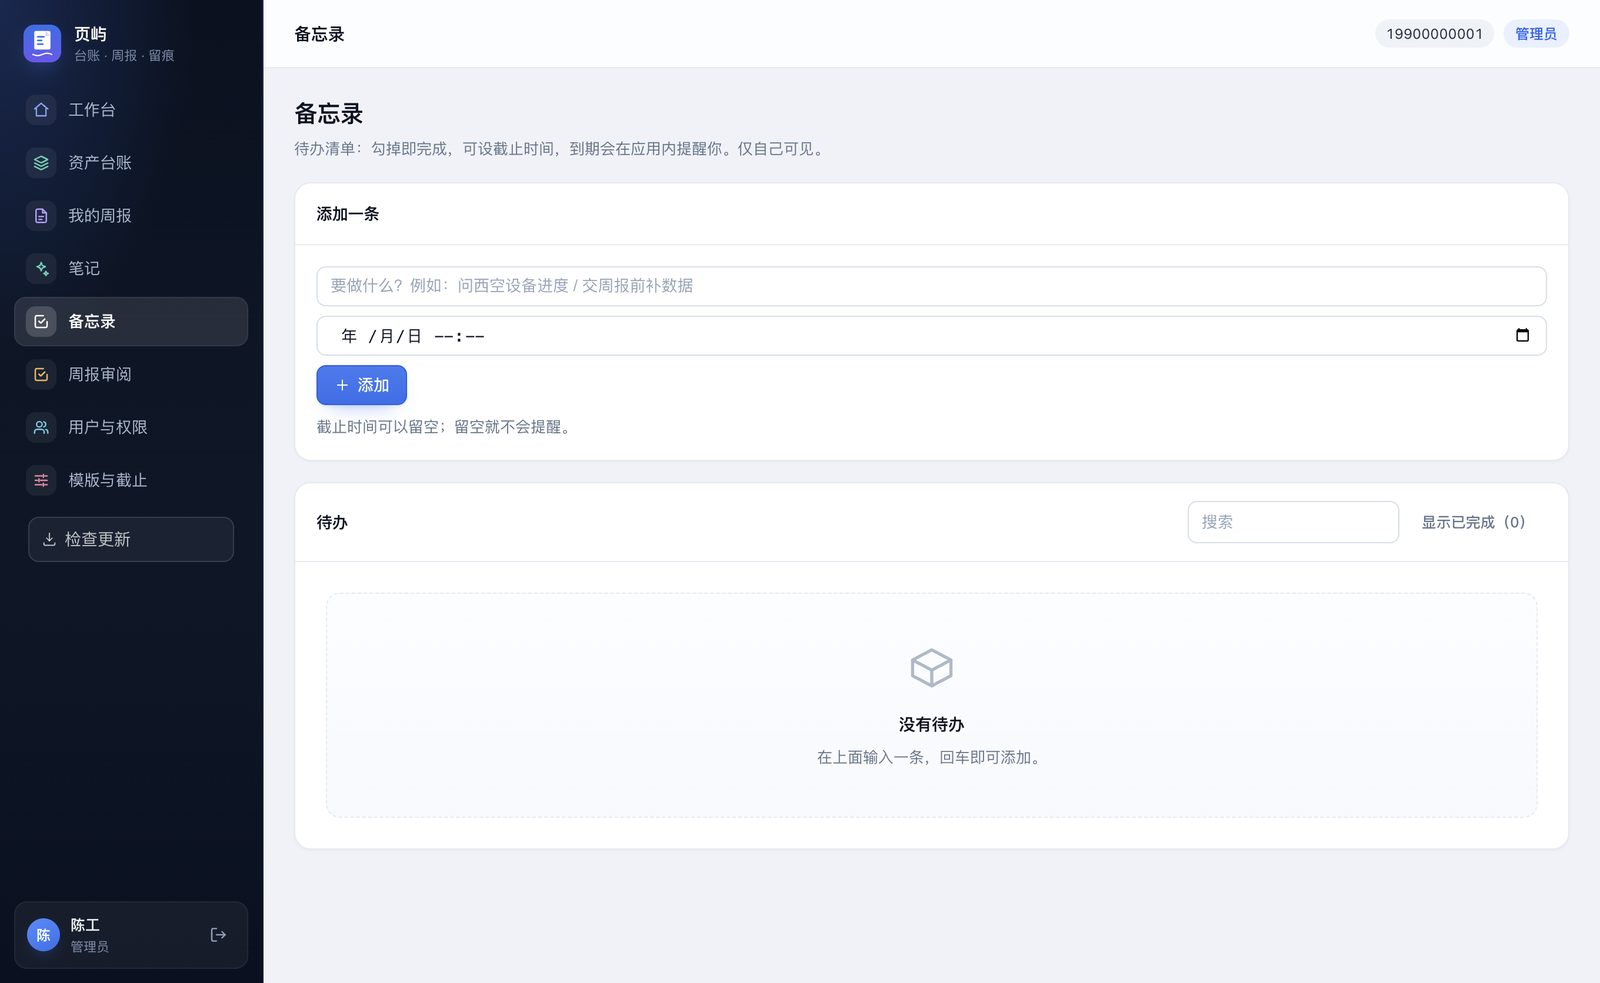
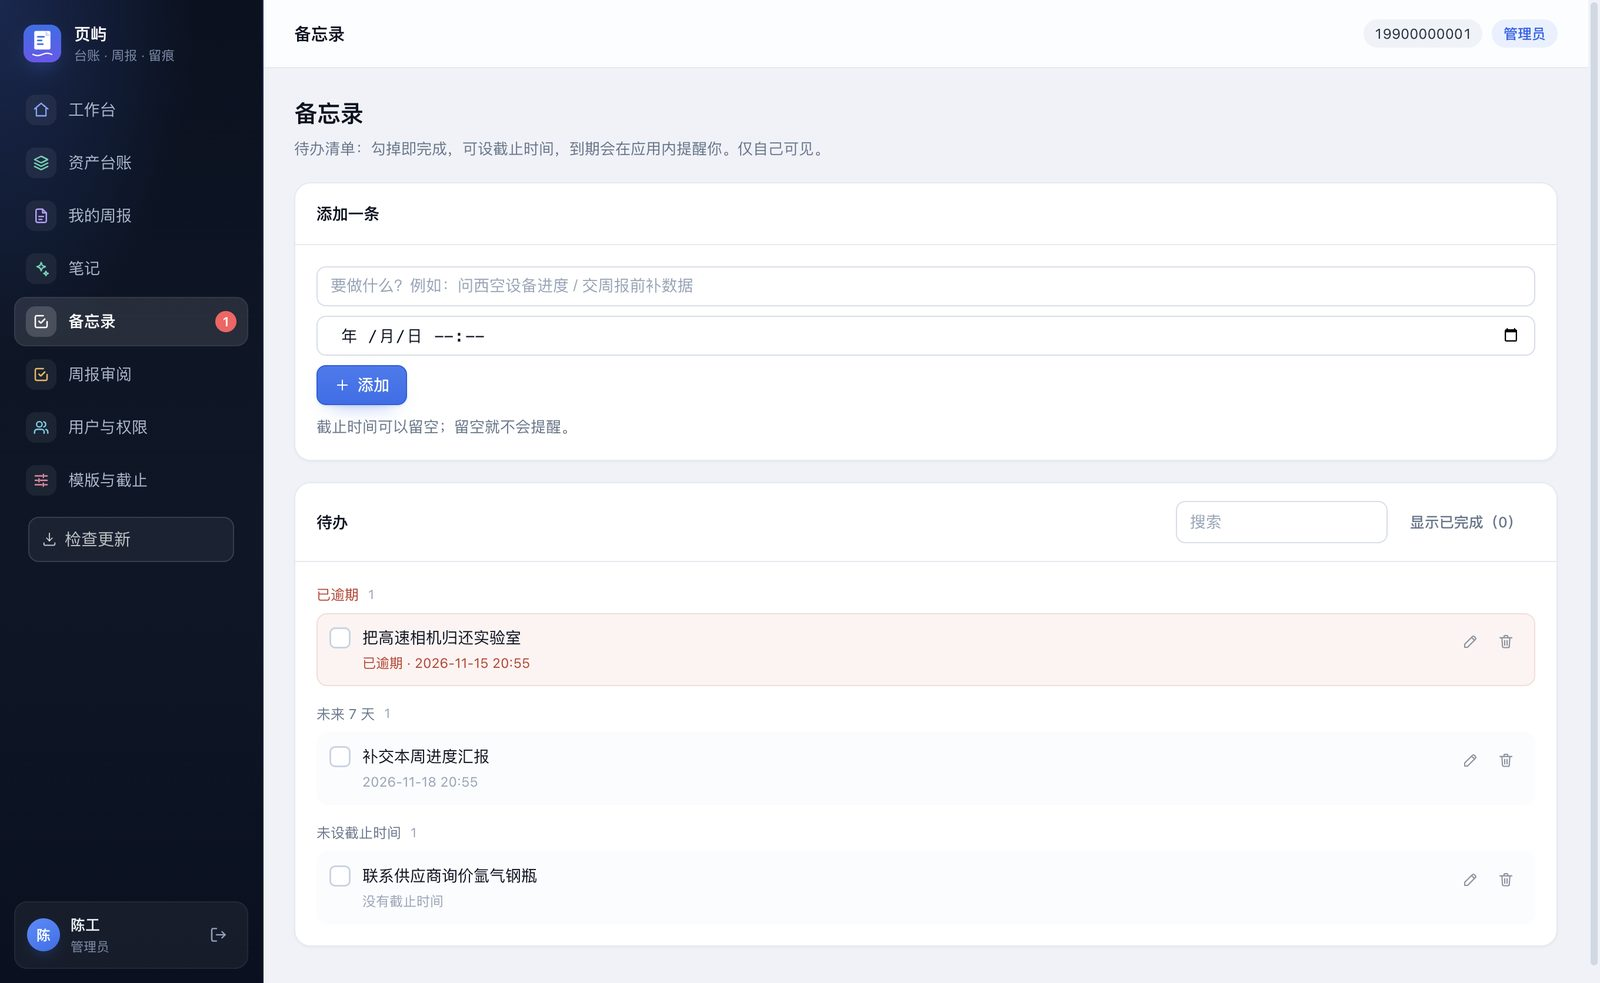
docs(site): 从名字出发重写定位，并扩展到课题组以外的领域
- 封面改为「一页一屿，连成你自己的群岛」，副文案讲「记录散在群聊、表格、便签和脑子里」的处境
- 新增「名字的故事」区块：页=记录、屿=岛、孤立的记录 vs 连成群岛后的地形
- 痛点区改为跨行业对照：工作室（雕刻机去哪了）/ 课题组（周五下午的周报）/
  门店·车间（客户那句「要浅一点」）/ 截止夜（挨个问交没交），
  收在一句「名字换了，麻烦是一样的」
- 功能区标题保持「四件事，一个窗口」，卡片改为跨领域措辞：
  台账（设备·物料·库存）、周期汇报（周报/月报/日报）、笔记与日志、待办与提醒、
  成员与分组、音视频与附件
- 新增「谁用得上」六宫格：课题组/工作室/车间仓库/门店诊所/社团/家庭个人
- 信任区与部署区去掉「课题组」限定；标题与 meta/og 同步新定位
- 重抓演示截图：笔记载入 4 条（含日报、双链与关联面板）、备忘录 3 条并带逾期角标，
  替换掉之前「还没有笔记」的空状态图

diff --git a/site/index.html b/site/index.html
@@ -3,10 +3,10 @@
 <head>
 <meta charset="utf-8" />
 <meta name="viewport" content="width=device-width, initial-scale=1" />
-<title>页屿 Yeyu · 实验室台账、周报与笔记的桌面工作台</title>
-<meta name="description" content="「那台示波器借给谁了？」——页屿替你记着。课题组的设备台账、按模版写的周报、每日记录与待办，都在一个窗口里；数据存在自己的服务器上，开源 MIT。" />
-<meta property="og:title" content="页屿 Yeyu · 实验室台账、周报与笔记的桌面工作台" />
-<meta property="og:description" content="设备去了哪、周报写到哪、想法停在哪——一屏看完。开源 MIT，装在自己的服务器上。" />
+<title>页屿 Yeyu · 一页一屿，把散落的记录连成你自己的岛</title>
+<meta name="description" content="页屿 Yeyu：把设备台账、周期汇报、笔记日志、待办提醒放进一个桌面软件。适合课题组、工作室、车间、门店、社团——任何「东西要登记、进度要交代、想法要留住」的小团队。开源 MIT，数据在自己服务器上。" />
+<meta property="og:title" content="页屿 Yeyu · 一页一屿，把散落的记录连成你自己的岛" />
+<meta property="og:description" content="一页一屿。设备在谁手上、这周做了什么、那句话记在哪——散在群聊和便签里的记录，连成你自己的一座岛。开源 MIT。" />
 <meta property="og:image" content="assets/hero-home.jpg" />
 <link rel="icon" href="assets/logo.png" />
 <style>
@@ -118,6 +118,27 @@
   section { padding: 76px 0; }
   .section-title { font-size: 27px; margin: 0 0 10px; letter-spacing: -0.01em; }
   .section-sub { color: var(--ink-soft); font-size: 14.5px; margin: 0 0 34px; line-height: 1.85; }
+
+  /* 名字的故事 */
+  .name-story { color: #fff; padding: 8px 0 30px; }
+  .name-story .wrap { max-width: 780px; }
+  .name-line { font-size: 30px; line-height: 1.5; margin: 0 0 18px; letter-spacing: -0.01em; }
+  .name-line span {
+    background: linear-gradient(96deg, #8ab4ff, #c8a9ff);
+    -webkit-background-clip: text; background-clip: text; color: transparent;
+    font-weight: 700;
+  }
+  .name-sub { font-size: 15px; line-height: 2; color: rgba(255,255,255,0.66); margin: 0 0 16px; }
+  .name-end { font-size: 15px; color: rgba(255,255,255,0.8); margin: 0; }
+  .name-end strong { color: #fff; }
+
+  /* 谁用得上 */
+  .uses { display: grid; grid-template-columns: repeat(3, 1fr); gap: 14px; }
+  @media (max-width: 940px) { .uses { grid-template-columns: repeat(2, 1fr); } }
+  @media (max-width: 620px) { .uses { grid-template-columns: 1fr; } }
+  .use { background: var(--panel); border: 1px solid var(--line); border-radius: 14px; padding: 18px 20px; }
+  .use h4 { font-size: 14.5px; margin: 0 0 7px; color: var(--ink); }
+  .use p { margin: 0; font-size: 13px; line-height: 1.8; color: var(--ink-soft); }
 
   /* 痛点区（深色） */
   .pains { color: #fff; padding: 26px 0 84px; }
@@ -246,10 +267,10 @@
     <div class="wrap hero-grid">
       <div>
         <span class="pill"><i></i><span id="release-badge">开源 · MIT</span></span>
-        <h1>「那台示波器，<br />借给谁了？」<br /><em>页屿替你记着。</em></h1>
+        <h1>一页一屿，<br />连成你自己的<em>群岛</em></h1>
         <p class="lede">
-          组里的设备台账、按模版写的周报、每天的想法、没做完的待办，本来是四件互不相干的事。
-          页屿把它们收进同一个窗口：东西在谁手上、周报改过几版、那句话是什么时候记的——翻一眼就能答上来。
+          设备在谁手上、这周做了些什么、那句想法记在哪、还有哪件事没做完——
+          这些记录本来散在群聊、表格、便签和脑子里。页屿把它们一页页收好，连成一片你自己看得懂的海域。
         </p>
 
         <div class="downloads">
@@ -278,33 +299,45 @@
     </div>
   </section>
 
+  <section class="name-story">
+    <div class="wrap">
+      <p class="name-line"><span>「页」</span>是记录，<span>「屿」</span>是岛。</p>
+      <p class="name-sub">
+        一条记录单看没什么，像一座孤零零的小岛：一张设备表、一份周报、半页笔记、一句「下周问一下」。
+        让它们落在同一片水域里，才看得出地形——你在哪块地上做过什么、东西最后停在哪、那件事到底做完了没有。
+      </p>
+      <p class="name-end">这就是页屿：<strong>让散落的页面，连成你自己的群岛。</strong></p>
+    </div>
+  </section>
+
   <section class="pains">
     <div class="wrap">
-      <h2 class="pains-title">没有它的时候，一周大概是这样过的</h2>
+      <h2 class="pains-title">换个行业，麻烦长得一模一样</h2>
       <div class="pains-grid">
         <div class="pain">
-          <span class="pain-tag">周一</span>
-          <h3>找设备</h3>
-          <p>翻三个群、问五个人，最后发现那台机器躺在隔壁工位，插着别人的线。</p>
+          <span class="pain-tag">工作室</span>
+          <h3>那台雕刻机去哪了</h3>
+          <p>翻三个群、问五个人，最后发现它在隔壁工位，插着别人的线，刀头还没卸。</p>
         </div>
         <div class="pain">
-          <span class="pain-tag">周五</span>
-          <h3>写周报</h3>
+          <span class="pain-tag">课题组</span>
+          <h3>周五下午的周报</h3>
           <p>翻聊天记录和相册，把一周重新拼一遍，再对着上周的模版改格式、调标题。</p>
         </div>
         <div class="pain">
-          <span class="pain-tag">随时</span>
-          <h3>记想法</h3>
-          <p>顺手写在便签或聊天框里，一周后看见那张纸，想不起当时为什么这么写。</p>
+          <span class="pain-tag">门店 / 车间</span>
+          <h3>客户那句「要浅一点」</h3>
+          <p>写在收银小票背面，三天后翻不到，只能重做一版，还不敢说是因为忘了。</p>
         </div>
         <div class="pain">
           <span class="pain-tag">截止夜</span>
-          <h3>催进度</h3>
-          <p>挨个头像点过去问「你的周报呢」，问完还得自己数谁没交、谁交的是草稿。</p>
+          <h3>挨个问交没交</h3>
+          <p>点开一个个头像问「你的进度呢」，问完还得自己数：谁没交、谁交的是草稿、谁交错了周。</p>
         </div>
       </div>
       <p class="pains-lead">
-        页屿把这四件事收进同一个窗口——不是为了多装一个软件，<strong>是为了少四次追问。</strong>
+        名字换了，麻烦是一样的：东西在谁手上、事情做到哪、那句话记在哪。
+        页屿把它们收进同一个窗口——不是为了多装一个软件，<strong>是为了少四次追问。</strong>
       </p>
     </div>
   </section>
@@ -313,38 +346,38 @@
     <section id="features">
       <div class="wrap">
         <h2 class="section-title">四件事，一个窗口</h2>
-        <p class="section-sub">每块都能单独用，合起来才顺：查到设备就知道谁负责，点开人就知道他这周交没交，交了什么又能回溯到当天的记录。</p>
+        <p class="section-sub">设备要登记、进度要交代、想法要留住、事情要有人跟。四块都能单独用，合起来才顺：查到东西就知道谁负责，点开人就知道他这周交没交。</p>
 
         <div class="features">
           <div class="feature">
             <div class="ico"><svg width="18" height="18" viewBox="0 0 24 24" fill="none" stroke="currentColor" stroke-width="1.9" stroke-linecap="round" stroke-linejoin="round"><path d="M12 3l9 4.5-9 4.5L3 7.5 12 3Z" /><path d="M3 12l9 4.5 9-4.5" /><path d="M3 16.5L12 21l9-4.5" /></svg></div>
-            <h3>资产台账</h3>
-            <p>谁在用、放在哪、值多少钱，一屏看清。成员只能改自己负责的那几行；借用归还、盘点差异、每次修改都留痕。手里有 Excel？导入导出都支持，迁移不费劲。</p>
+            <h3>台账：设备 · 物料 · 库存</h3>
+            <p>谁在用、放在哪、值多少钱、保修到几时，一屏看清。成员只能改自己负责的那几行；借用归还、盘点差异、每次修改都留痕。手里有 Excel 就导入，迁移不费劲。</p>
           </div>
           <div class="feature">
             <div class="ico"><svg width="18" height="18" viewBox="0 0 24 24" fill="none" stroke="currentColor" stroke-width="1.9" stroke-linecap="round" stroke-linejoin="round"><path d="M14 3H7a2 2 0 0 0-2 2v14a2 2 0 0 0 2 2h10a2 2 0 0 0 2-2V8l-5-5Z" /><path d="M14 3v5h5" /><path d="M9 13h6" /><path d="M9 17h4" /></svg></div>
-            <h3>按模版写的周报</h3>
-            <p>把组里现有的 Word 周报传上去，页屿自己认得出小节；你只管往每节里填，图和表直接贴。截止时间按「周几几点」算，每周交还是单双周交，都能设。</p>
+            <h3>周期汇报：周报 / 月报 / 日报</h3>
+            <p>把现有的 Word 模版传上去，页屿自己认得出小节；你只管往每节里填，图直接贴。截止时间按「周几几点」算，每周交、单双周交、还是只交月报，都能设。</p>
           </div>
           <div class="feature">
             <div class="ico"><svg width="18" height="18" viewBox="0 0 24 24" fill="none" stroke="currentColor" stroke-width="1.9" stroke-linecap="round" stroke-linejoin="round"><path d="M12 3v3" /><path d="M12 18v3" /><path d="M3 12h3" /><path d="M18 12h3" /><circle cx="12" cy="12" r="4.2" /></svg></div>
-            <h3>日报与笔记</h3>
-            <p>一天一条日报，想到什么随手记。<code>[[双向链接]]</code> 把零散记录连成网，<code>#标签</code>、全文搜索、日历和关系图帮你把「好像记过」变成「找得到」。想搬走就导出 Markdown。</p>
+            <h3>笔记与日志</h3>
+            <p>每天一页，想到什么随手记。<code>[[双向链接]]</code> 把零散记录连成网，<code>#标签</code>、全文搜索、日历和关系图帮你把「好像记过」变成「找得到」。想搬走就导出 Markdown。</p>
           </div>
           <div class="feature">
             <div class="ico"><svg width="18" height="18" viewBox="0 0 24 24" fill="none" stroke="currentColor" stroke-width="1.9" stroke-linecap="round" stroke-linejoin="round"><path d="M20 6 9 17l-5-5" /></svg></div>
-            <h3>待办备忘录</h3>
+            <h3>待办与提醒</h3>
             <p>「下周问一下设备进度」这种话，记下来就不会忘。到点软件里提醒你，同一条只响一次；过了期的事红着摆在那儿，侧边栏也挂着角标。</p>
           </div>
           <div class="feature">
             <div class="ico"><svg width="18" height="18" viewBox="0 0 24 24" fill="none" stroke="currentColor" stroke-width="1.9" stroke-linecap="round" stroke-linejoin="round"><path d="M16 20v-1.5a4 4 0 0 0-4-4H7a4 4 0 0 0-4 4V20" /><circle cx="9.5" cy="7" r="3.2" /><path d="M17 11a3 3 0 1 0 0-6" /><path d="M21 20v-1.5a3.6 3.6 0 0 0-2.6-3.4" /></svg></div>
-            <h3>成员与小组</h3>
-            <p>手机号注册、管理员审批，谁在用一清二楚。按方向或职能建组，筛选、分派、统计都跟着组走——设备归属也自动跟着人走。</p>
+            <h3>成员与分组</h3>
+            <p>手机号注册、管理员审批，谁在用一清二楚。按部门、方向或班组建组，筛选、分派、统计都跟着组走——设备归属也自动跟着人走。</p>
           </div>
           <div class="feature">
             <div class="ico"><svg width="18" height="18" viewBox="0 0 24 24" fill="none" stroke="currentColor" stroke-width="1.9" stroke-linecap="round" stroke-linejoin="round"><rect x="3" y="5" width="18" height="14" rx="2.5" /><path d="M10 9.5l5 2.5-5 2.5z" /></svg></div>
-            <h3>视频与音频</h3>
-            <p>组会录像、设备异响的录音，直接拖进笔记或周报里就能播放，不用再去文件夹里翻。附件里的合同、发票、照片也能挂着，缺什么一眼看得出来。</p>
+            <h3>音视频与附件</h3>
+            <p>会议录像、设备异响的录音，直接拖进笔记或汇报里就能播放，不用再去文件夹里翻。合同、发票、照片也能挂着，缺什么一眼看得出来。</p>
           </div>
         </div>
 
@@ -355,6 +388,21 @@
           <span>审计日志（谁改了什么）</span>
           <span>Excel 批量导入导出</span>
           <span>登录小窗 + 会话保持</span>
+        </div>
+      </div>
+    </section>
+
+    <section id="uses" style="padding-top: 0;">
+      <div class="wrap">
+        <h2 class="section-title">谁用得上</h2>
+        <p class="section-sub">它解决的不是「某个行业的问题」，而是「一群人共用东西、需要交代进度、又怕把话忘了」这件事。</p>
+        <div class="uses">
+          <div class="use"><h4>课题组 / 实验室</h4><p>仪器台账、共用的采集卡与探头、按模版写的周报、实验日志与录音。</p></div>
+          <div class="use"><h4>工作室 / 小团队</h4><p>共用设备谁借走的、项目做到第几步、客户提的要求原话是什么。</p></div>
+          <div class="use"><h4>车间 / 仓库</h4><p>物料与工具登记、盘点差异、交接班记录、谁的活还没干完。</p></div>
+          <div class="use"><h4>门店 / 诊所</h4><p>固定资产与保修期、值班与交接记录、客户偏好与注意事项。</p></div>
+          <div class="use"><h4>社团 / 志愿组织</h4><p>成员名录与分组、活动记录与照片、物资借还、下一次会议待办。</p></div>
+          <div class="use"><h4>家庭 / 个人</h4><p>贵重物品与保修、家务与缴费待办、读书笔记与随手记。</p></div>
         </div>
       </div>
     </section>
@@ -381,14 +429,14 @@
               <li><strong>一个能自己跑起来的软件</strong>：一个容器 + 一个 SQLite 文件，不需要单独装数据库</li>
               <li><strong>数据在你手里</strong>：库和附件就是一个目录，备份 = 拷走 <code>app.db</code> 和 <code>uploads/</code></li>
               <li><strong>开源的</strong>：MIT，代码全在 GitHub，不满意可以自己改</li>
-              <li><strong>局域网就能用</strong>：不依赖任何外部云服务，断网也在自己机器上跑</li>
+              <li><strong>局域网就能用</strong>：办公室几台电脑连一台机器即可，不依赖任何外部云服务</li>
             </ul>
           </div>
           <div class="trust-col no">
             <h3>它不是什么</h3>
             <ul>
               <li><strong>不是云服务</strong>：没有账号托管，也没有把数据传出去的地方</li>
-              <li><strong>不是万能系统</strong>：没有多租户、没有 OCR、没有短信找回密码</li>
+              <li><strong>不是万能系统</strong>：没有多租户、没有 OCR、没有短信找回密码，也不做财务记账</li>
               <li><strong>不支持多实例</strong>：SQLite 单文件，一台机器一个库；要横向扩容得换 PostgreSQL</li>
               <li><strong>安装包没签名</strong>：mac 首次打开要右键「打开」，或执行一条 <code>xattr</code></li>
             </ul>
